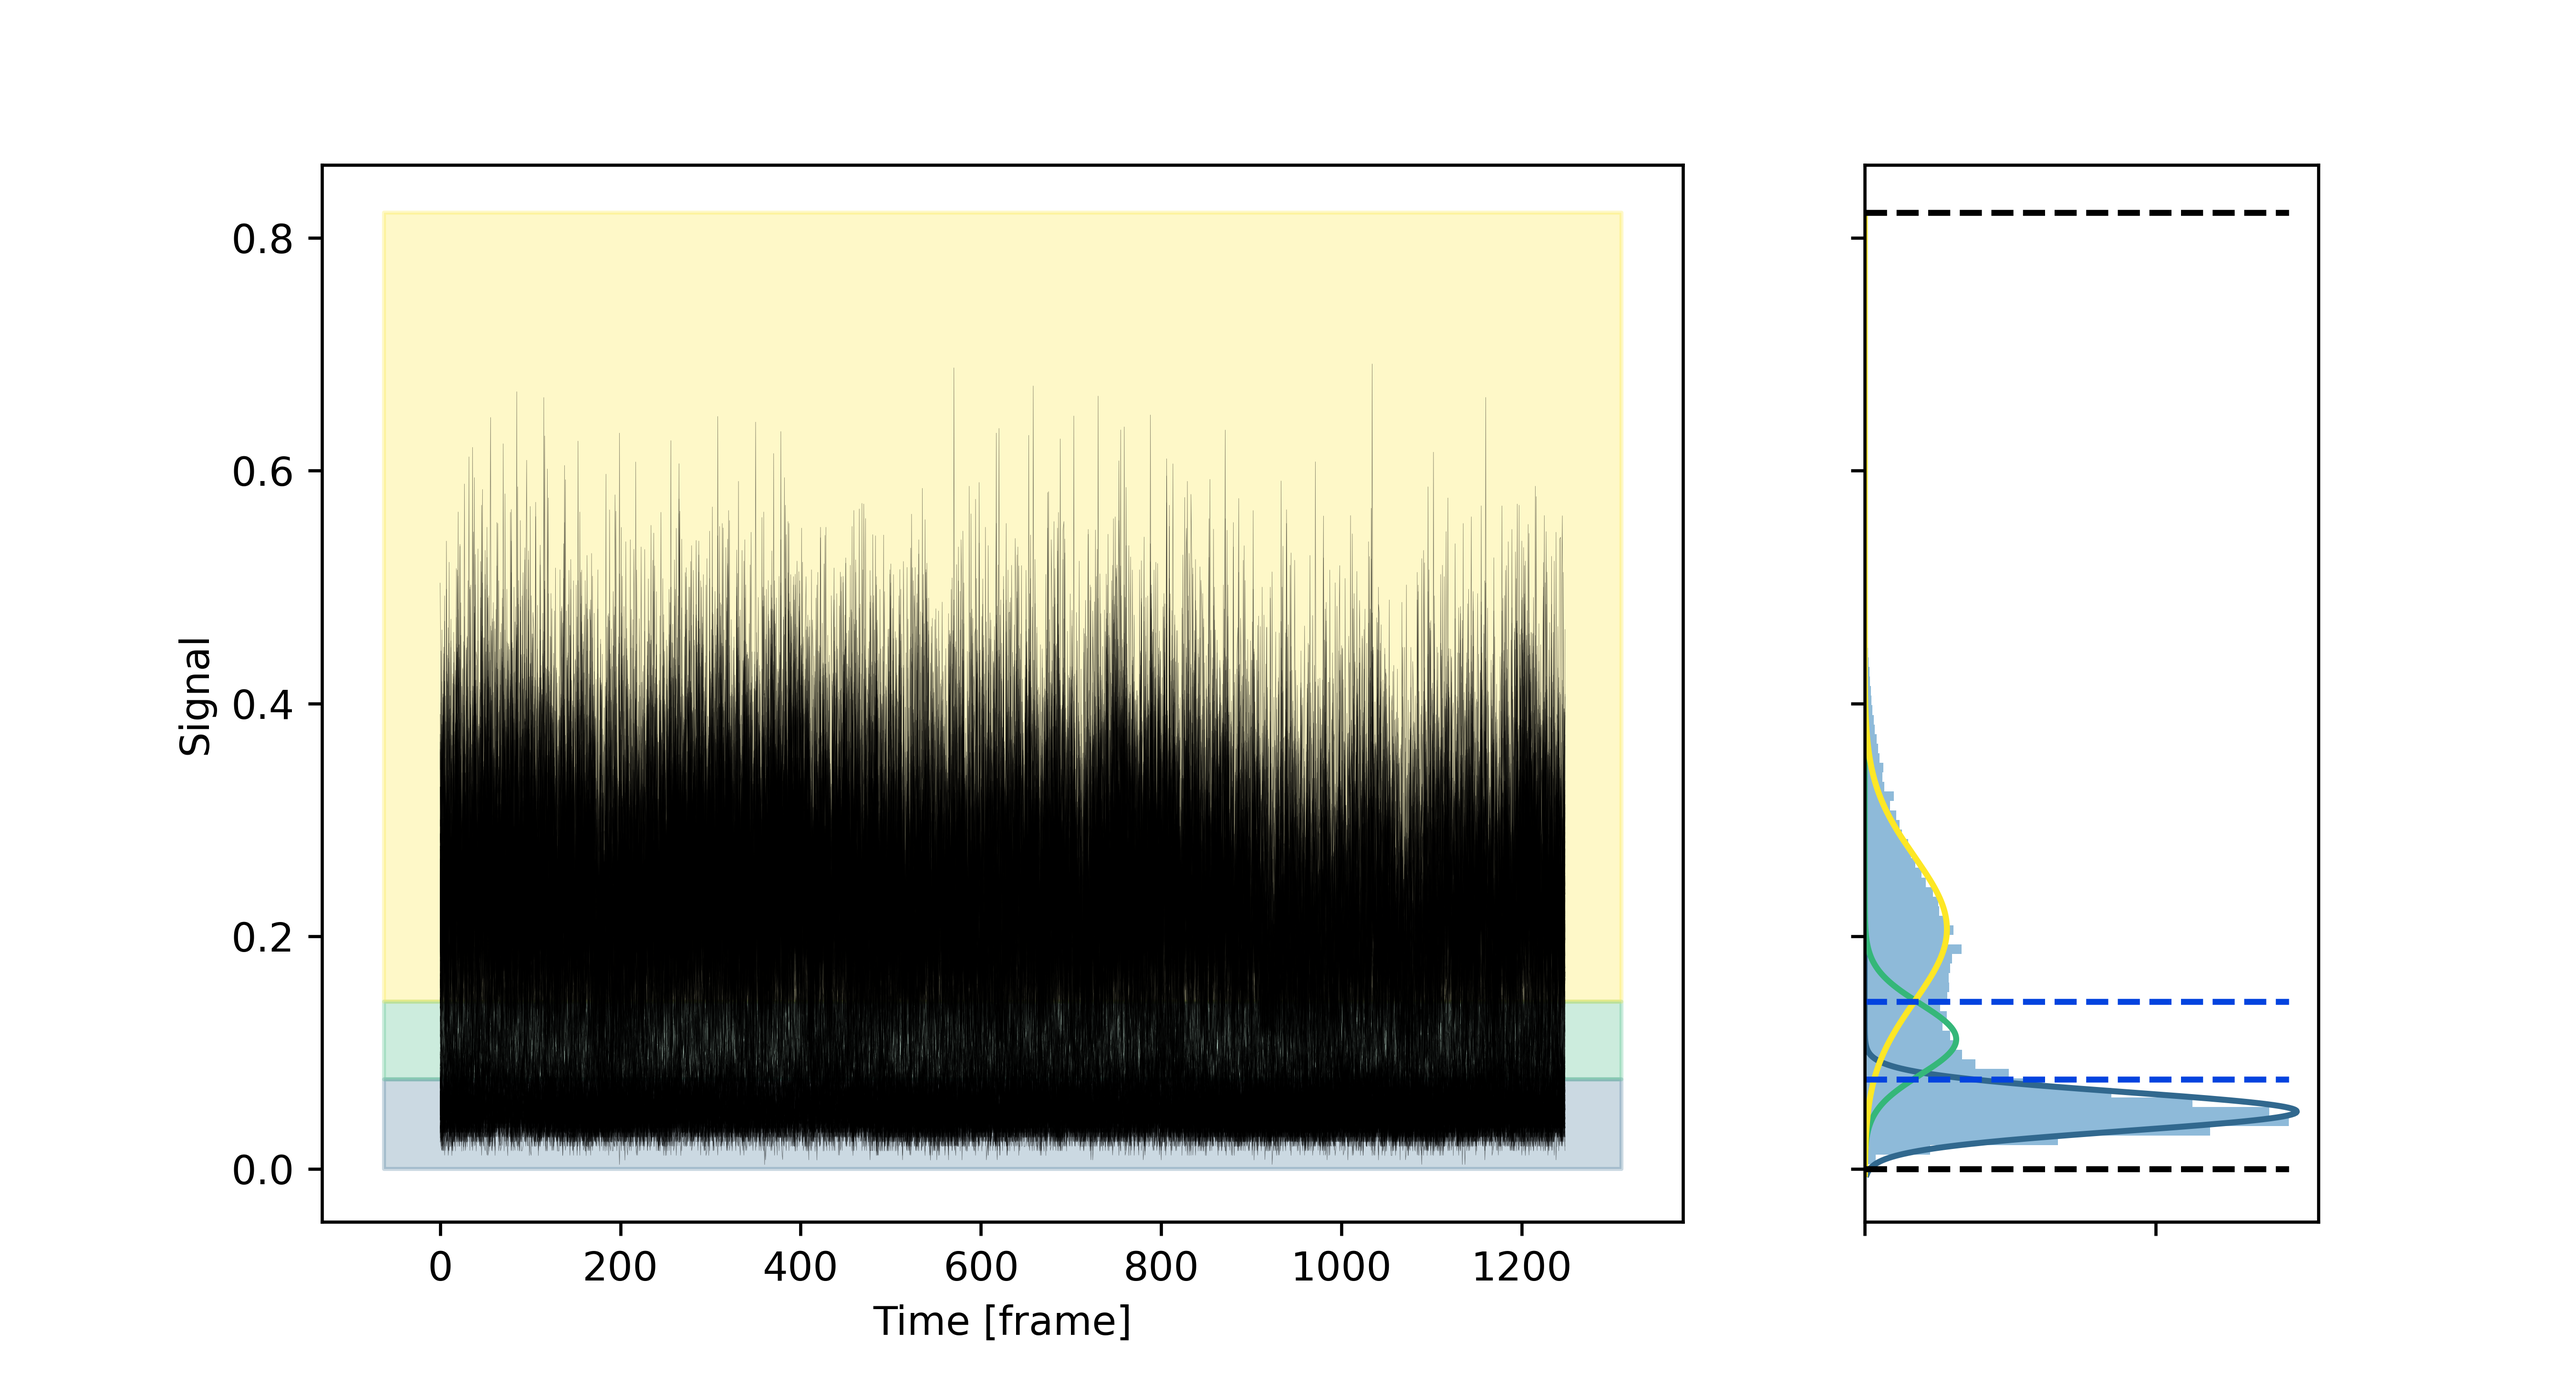
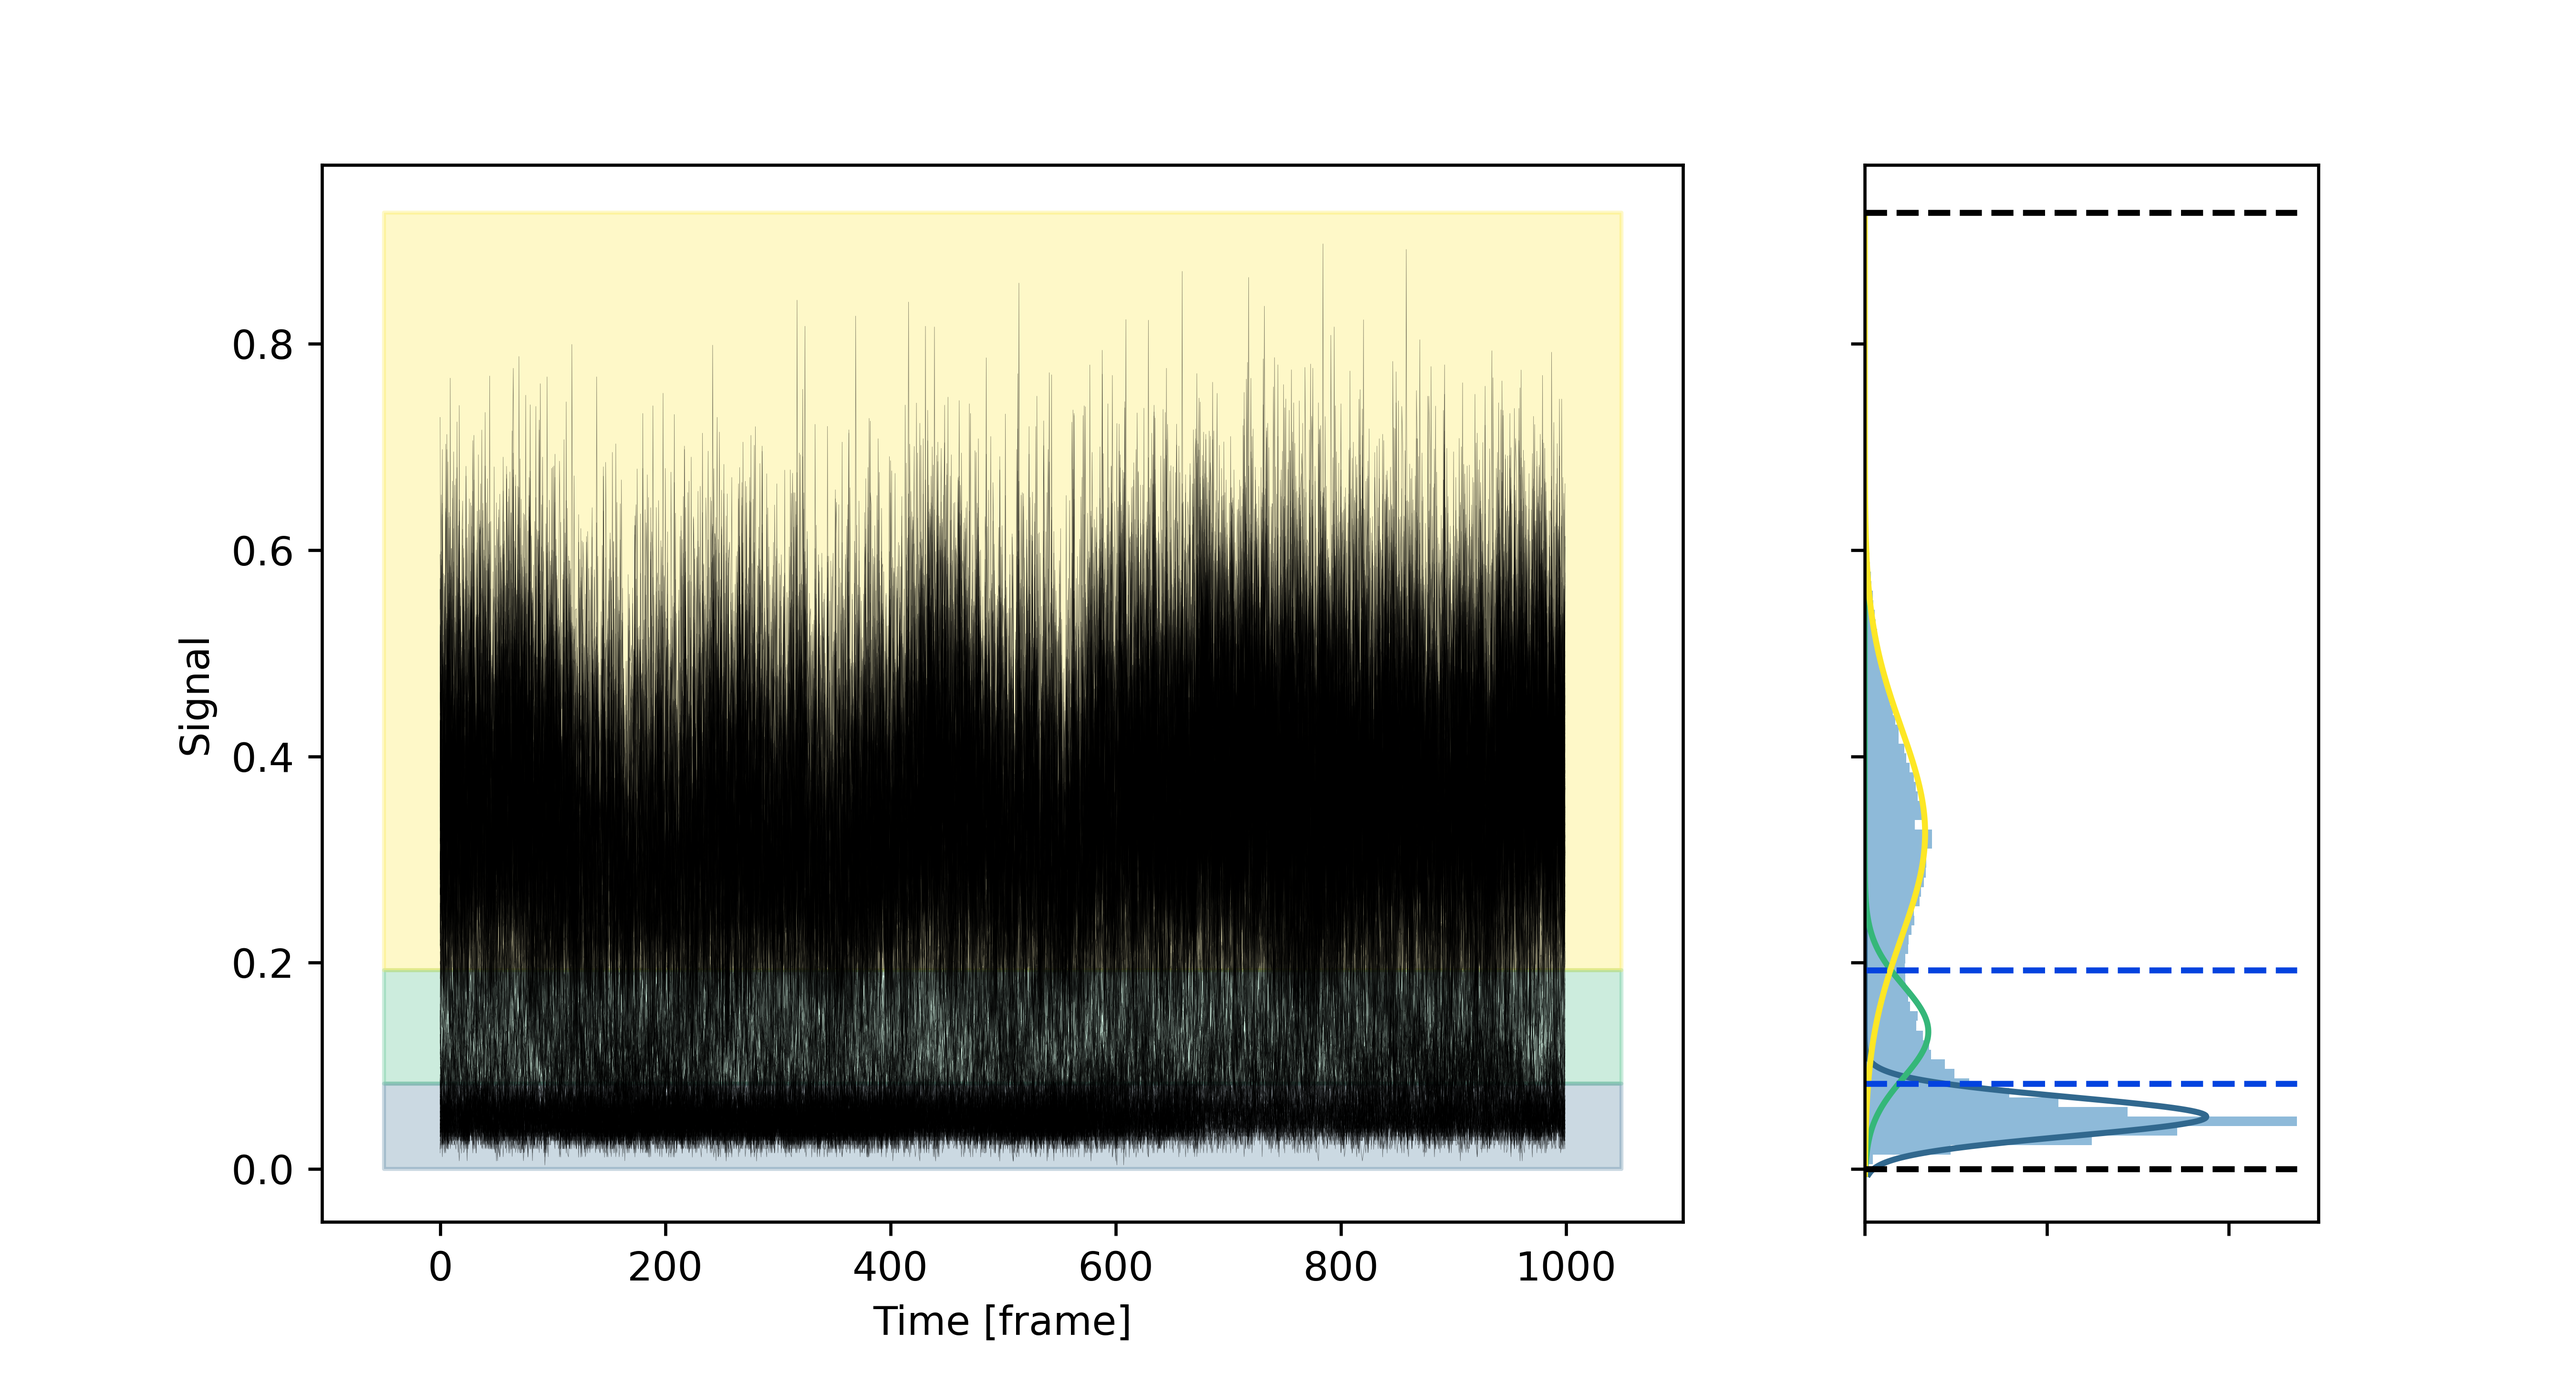
updated simulation files and minor changes.

diff --git a/docs/source/_static/recipes/getting_started.py b/docs/source/_static/recipes/getting_started.py
@@ -10,11 +10,12 @@ def main() -> None:
     # Loading an example trajectory
     files_path = Path("Path/to/the/folder/where/files/are/stored")
     trj = Trj.init_from_xtc(
-        traj_file=files_path / "oxygens.xtc",
-        topo_file=files_path / "oxygens.gro",
+        traj_file=files_path / "ice_water_ox.xtc",
+        topo_file=files_path / "ice_water_ox.gro",
     )
     # Computing a descriptor
-    lens = trj.get_lens(r_cut=7.5)
+    # Adjust n_jobs according to your computer capabilities
+    lens = trj.get_lens(r_cut=10, n_jobs=4)
 
     # Performing Onion Clustering on the descriptor computed
     lens_onion = lens.get_onion_smooth(delta_t=10)

diff --git a/docs/source/tutorials/getting_started.rst b/docs/source/tutorials/getting_started.rst
@@ -48,8 +48,8 @@ We now can load the trajectory using the :class:`.trajectory.Trj.init_from_xtc()
 
     files_path = Path("Path/to/the/folder/where/files/are/stored")
     trj = Trj.init_from_xtc(
-        traj_file=files_path / "oxygens.xtc",
-        topo_file=files_path / "oxygens.gro",
+        traj_file=files_path / "ice_water_ox.xtc",
+        topo_file=files_path / "ice_water_ox.gro",
     )
 
 Other methods to load trajectories are listed `here <../_autosummary/dynsight.trajectory.Trj.html>`__ and can be simply
@@ -66,7 +66,8 @@ This can be easily done using the :class:`.trajectory.Trj.get_lens()` method aft
 
 .. code-block:: python
 
-    lens = trj.get_lens(r_cut=7.5)
+    # Adjust n_jobs according to your computer capabilities
+    lens = trj.get_lens(r_cut=10, n_jobs=4)
 
 The method :class:`.trajectory.Trj.get_lens()` returns a
 :class:`.trajectory.Insight` object (``lens``), which in its ``.dataset`` attribute
@@ -150,6 +151,6 @@ Full scripts and input files
 
 .. raw:: html
 
-    <a class="btn-download" href="../../../../examples/analysis_workflow/oxygens.gro" download>⬇ Download the .gro file</a> <br>
-    <a class="btn-download" href="../../../../examples/analysis_workflow/oxygens.xtc" download>⬇ Download the .xtc file</a> <br>
+    <a class="btn-download" href="../_static/simulations/ice_water_ox.gro" download>⬇ Download the .gro file</a> <br>
+    <a class="btn-download" href="../_static/simulations/ice_water_ox.xtc" download>⬇ Download the .xtc file</a> <br>
     <a class="btn-download" href="../_static/recipes/getting_started.py" download>⬇ Download Python Script</a>
